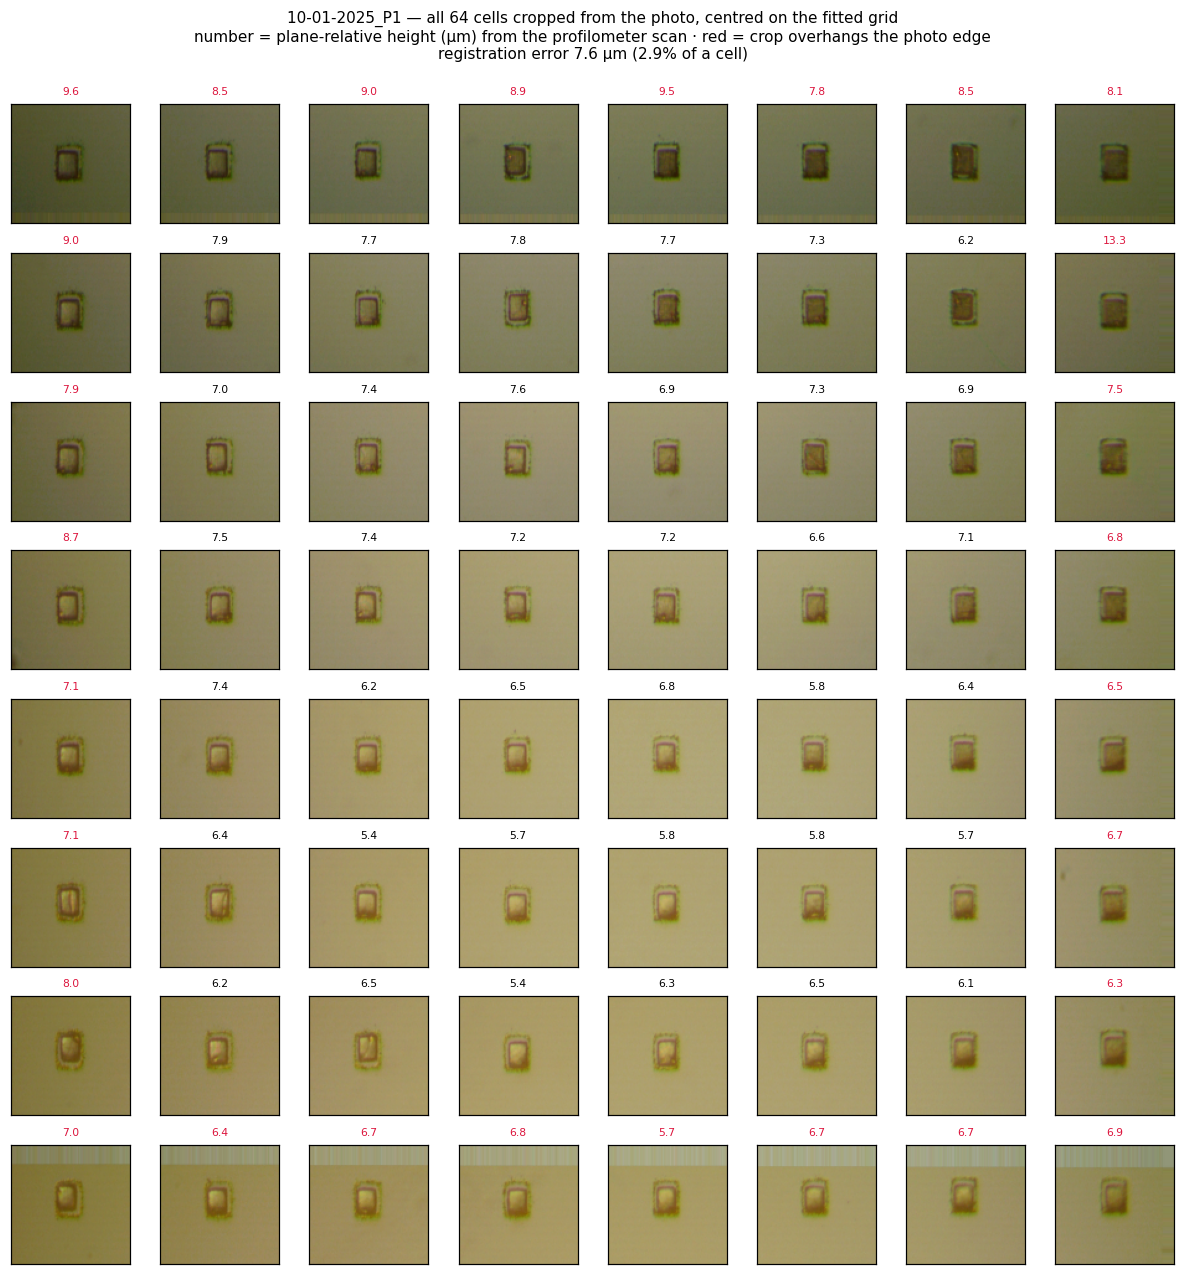
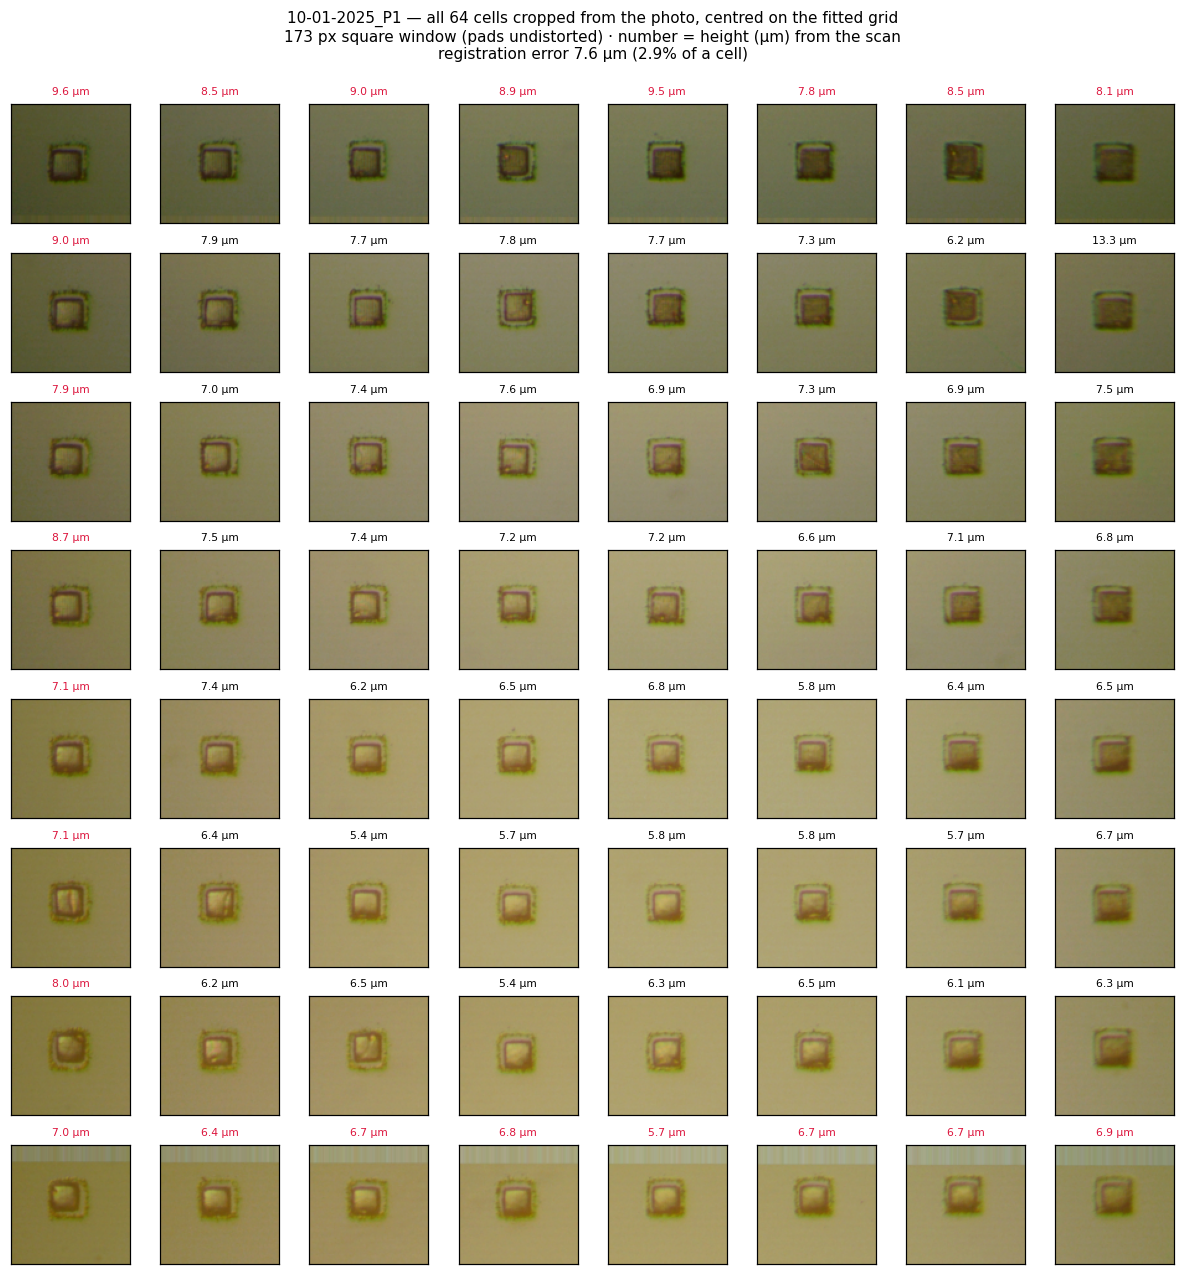
Regenerate figures with the corrected pixel-square crop geometry
montage.png and the audit's cell panel were rendered with the old
um-square windows, which stretched the pads ~1.32x. Both now crop square
in sensor pixels, sized off the tighter grid pitch.

Height-map figures, the summary charts and all labels are unaffected --
those come from the scan, which the photo pixel-scale fix does not touch.

Adds a caveat to the audit README: its experiments used the old window
geometry. The conclusions hold (no signal at any window size from 267 um
down to 60, and the control results are correlations), but the note says
how to re-run if the numbers are ever quoted as precise.

diff --git a/studies/02-thickness-signal-audit/src/make_figures.py b/studies/02-thickness-signal-audit/src/make_figures.py
@@ -204,7 +204,11 @@ def main() -> None:
     M, t = cm.affine[:2], cm.affine[2]
     px = np.linalg.inv(M.T) @ (hm.fit.predict((4, 4))[0] - t)
     sx, sy = cm.um_per_px
-    hw, hh = (267 / 2) / sx, (267 / 2) / sy
+    # Square in sensor pixels, not micrometres: the camera's pixels are square
+    # (pads measure 53.5 x 54.0 px across all 69 plates), so a um-square window
+    # would stretch the pad by ~1.32. Sized off the tighter grid pitch.
+    half = min(ph.fit.pitch) * 0.95 / 2
+    hw = hh = half
     xa, xb = int(px[0] - hw), int(px[0] + hw)
     ya, yb = int(px[1] - hh), int(px[1] + hh)
     patch = ph.img[ya:yb, xa:xb]

diff --git a/studies/02-thickness-signal-audit/README.md b/studies/02-thickness-signal-audit/README.md
@@ -174,6 +174,18 @@ the camera a real depth cue:
 
 ## Caveats
 
+- **Window geometry.** These experiments cropped windows that were square in
+  *micrometres*, using a per-axis photo scale. Later measurement over all 69
+  plates showed the camera's pixels are square (pads 53.5 x 54.0 px, geometric
+  mean 1.2501 um/px matching the 4x/0.5x optics), so those windows were
+  stretched ~1.32x relative to a true square. The conclusions are unaffected:
+  the sweep found no signal at *any* window size from 267 um down to 60 um, and
+  the substrate-ring control and position-leakage results are correlations,
+  which a modest change in window aspect does not move. The crop geometry is
+  corrected in `align-plates`; if these numbers are ever quoted as precise
+  rather than directional, re-run `build_features.py` against the new crops.
+
+
 - ρ = 0.202 is a median over 69 held-out plates. It is well above the 0.10
   noise floor but it is not a large effect, and no confidence interval is
   computed here.
